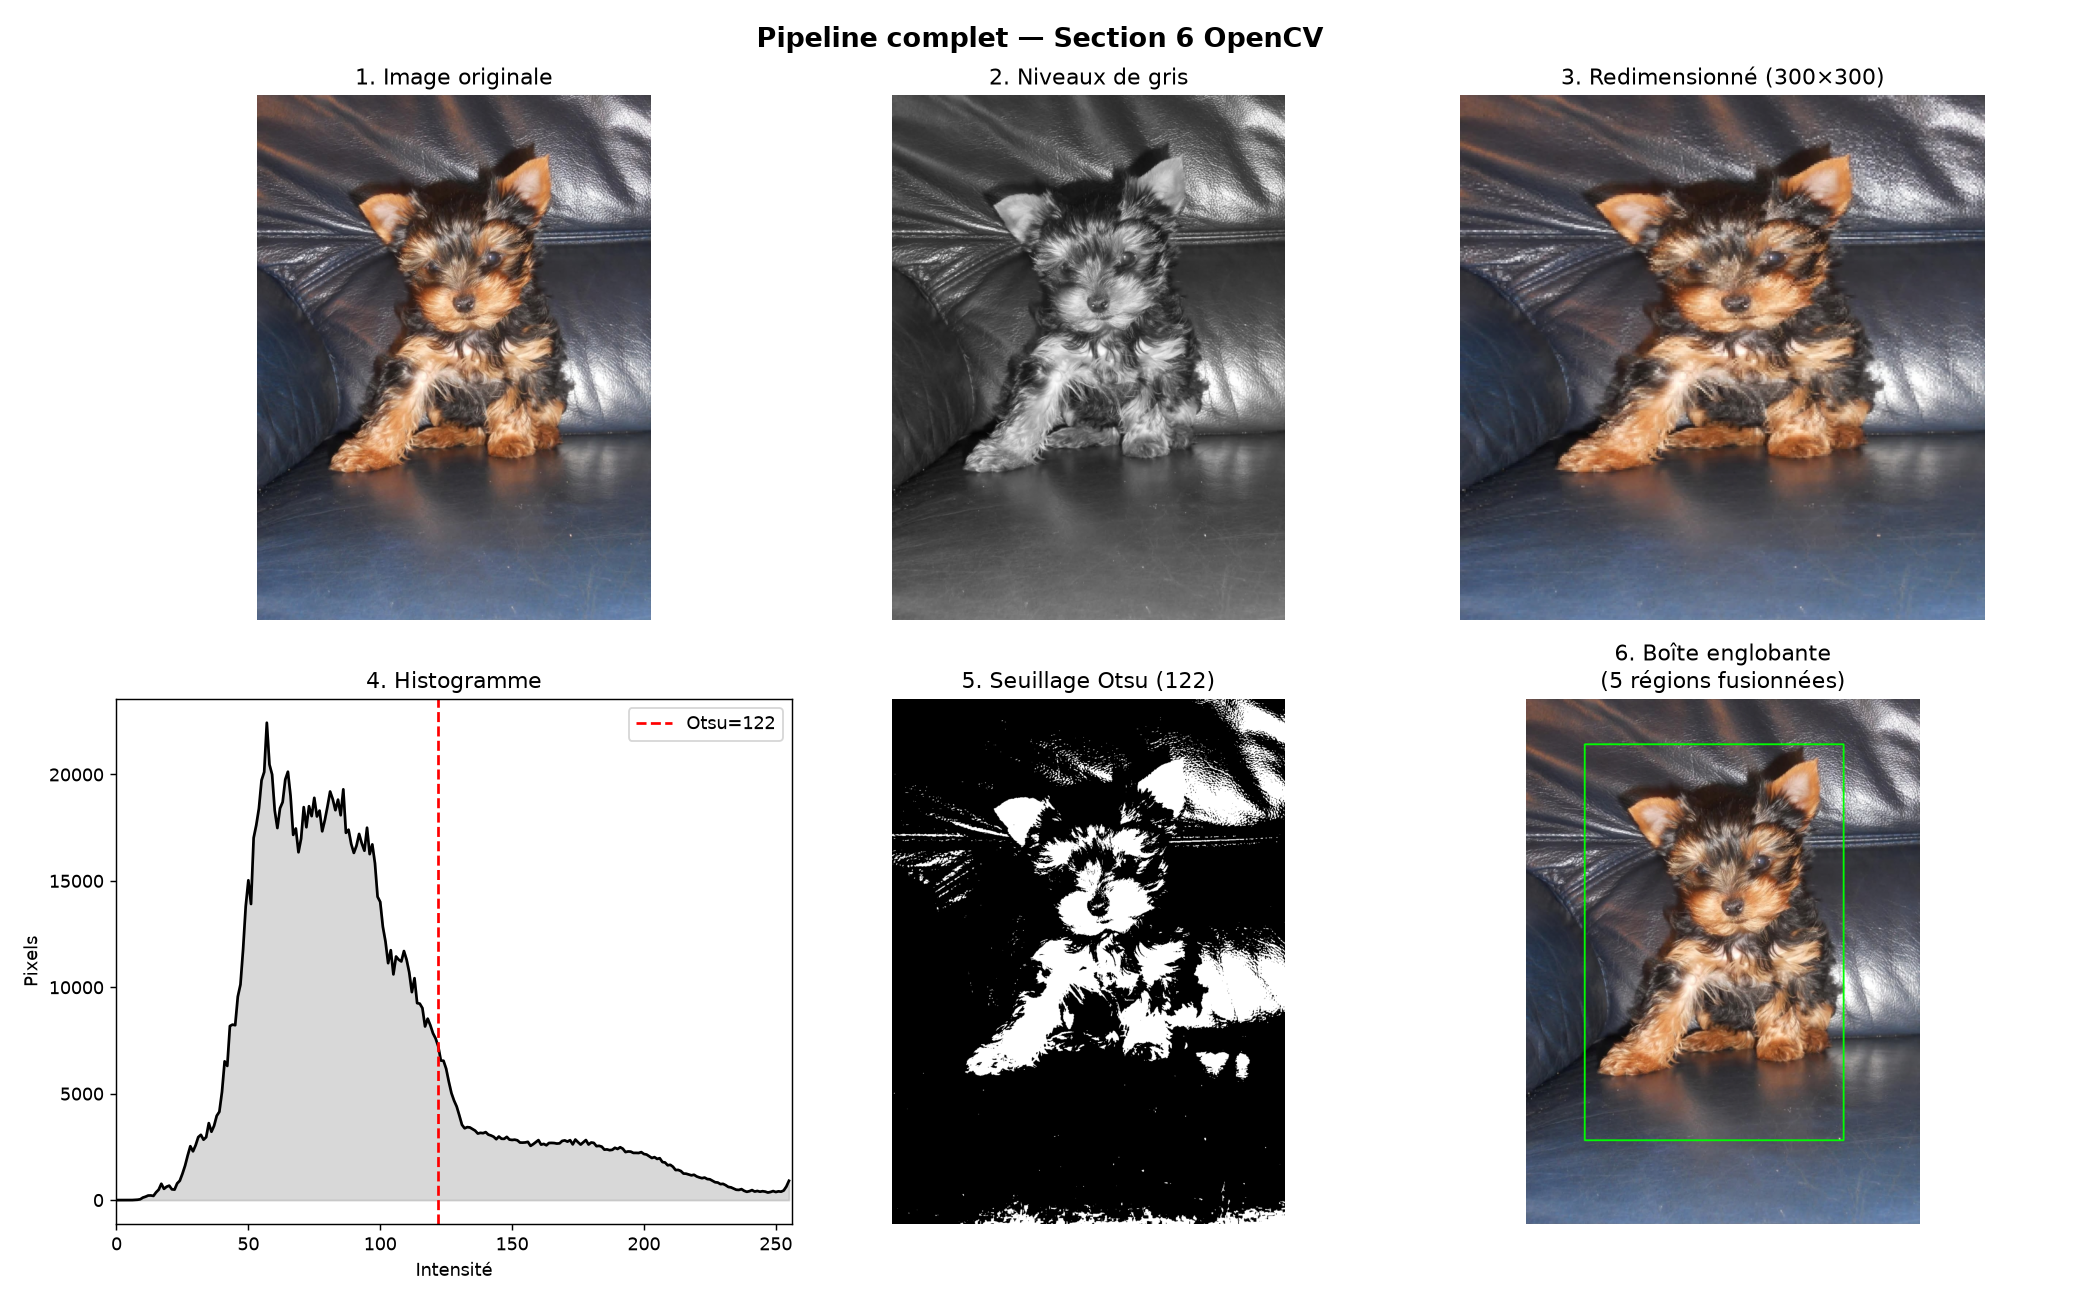
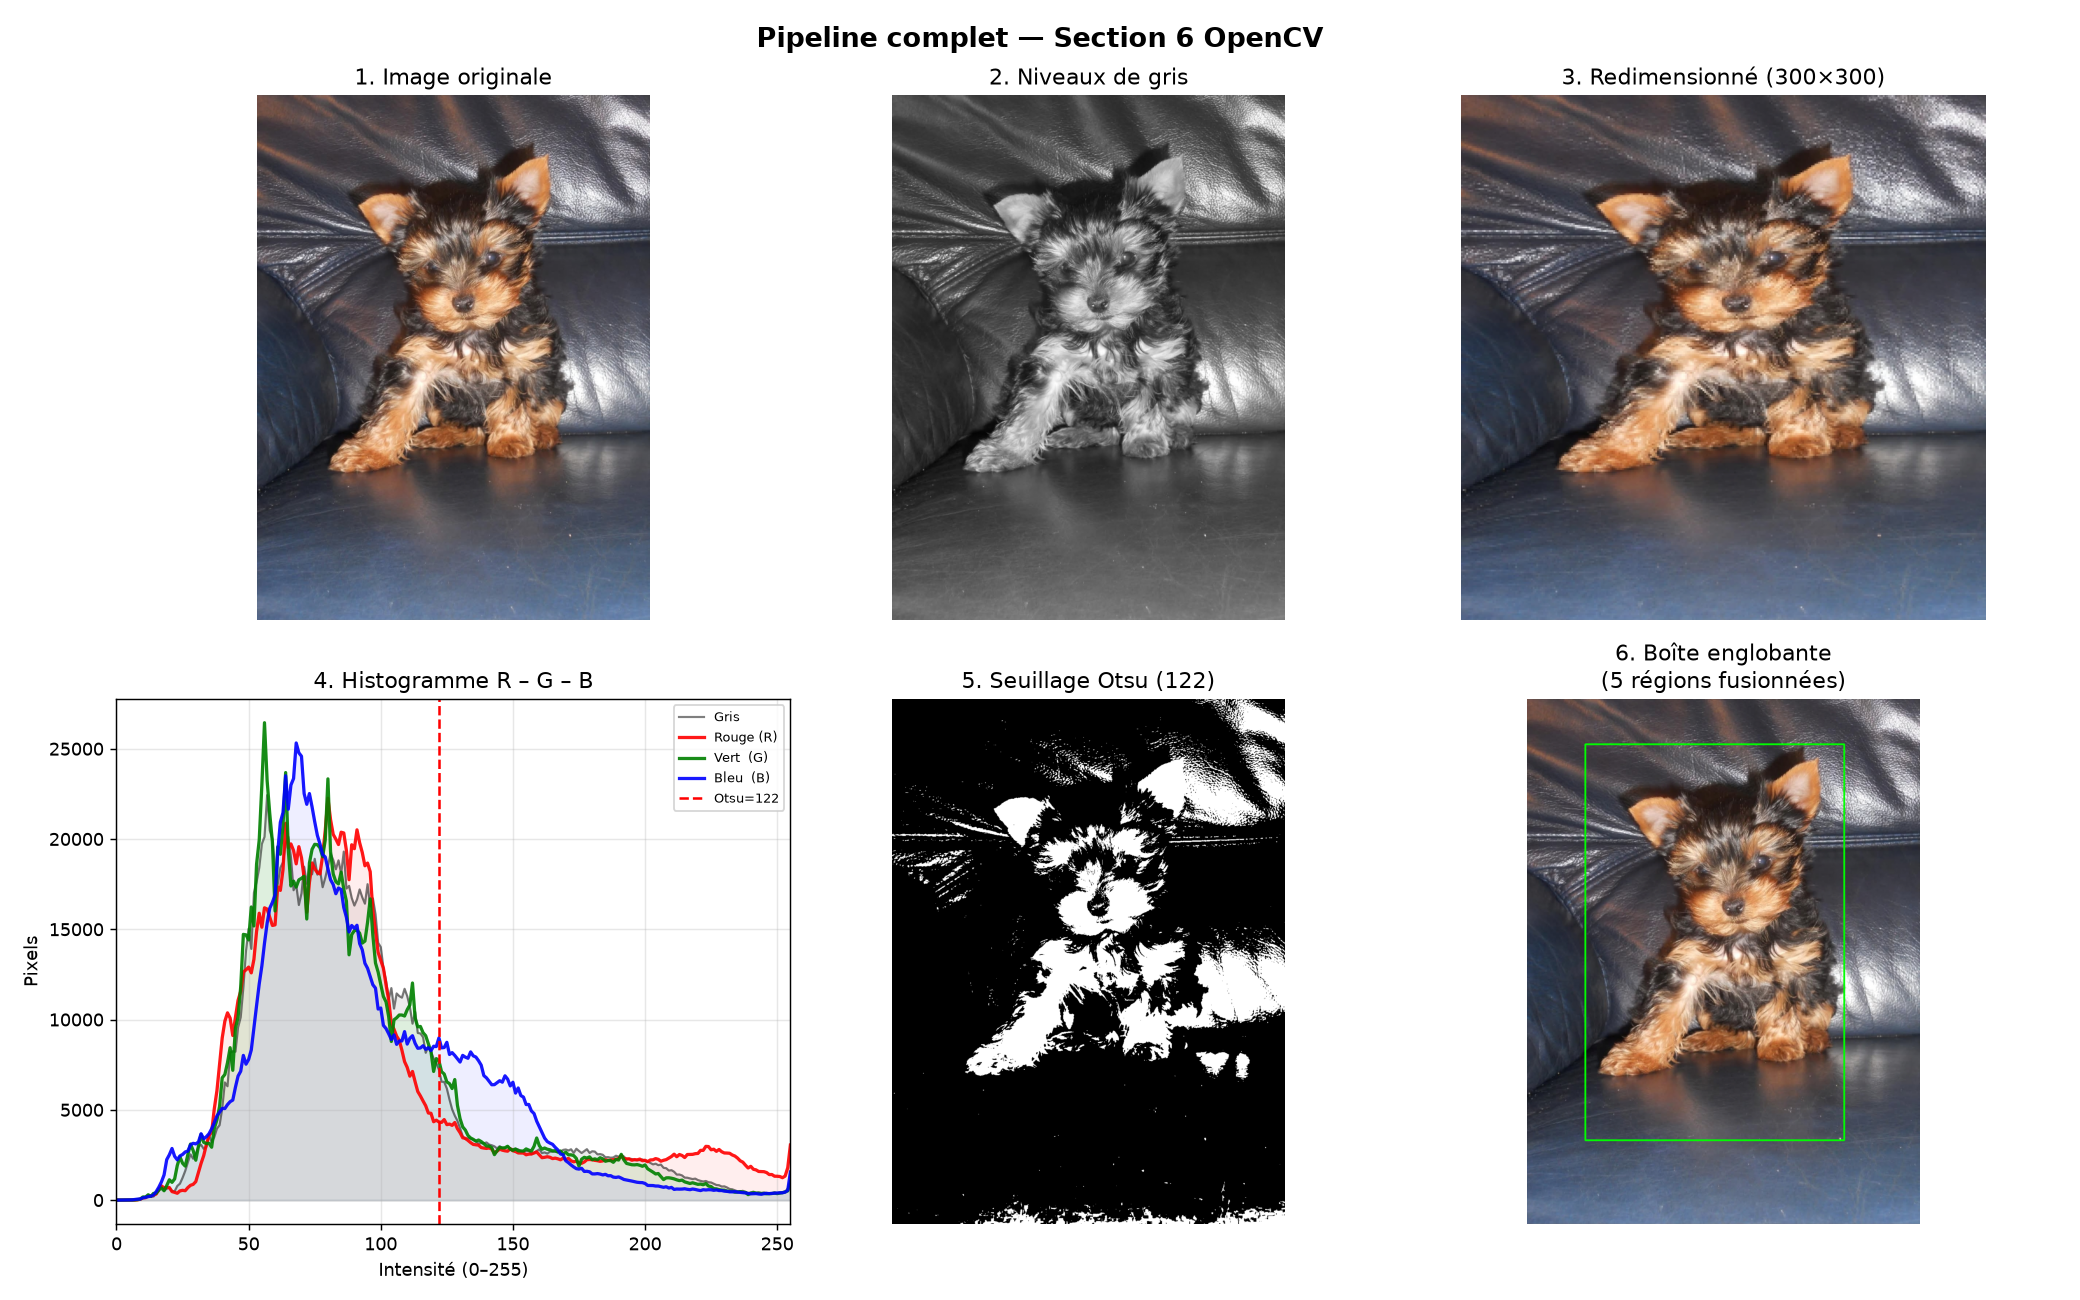
feat: ajout courbes R G B sur histogramme (main_section6 + 6_4)

diff --git a/section_6_opencv/main_section6.py b/section_6_opencv/main_section6.py
@@ -48,9 +48,16 @@ img_resize = cv2.resize(img, (300, 300))
 print(f"[3] Redimensionné   — forme : {img_resize.shape}")
 
 # ───────────────────────────────────────────────────────────────────────────
-# 4. Histogramme
+# 4. Histogramme niveaux de gris + courbes R, G, B
 # ───────────────────────────────────────────────────────────────────────────
 hist = cv2.calcHist([gris], [0], None, [256], [0, 256])
+
+# OpenCV stocke en BGR → index 2=R, 1=G, 0=B
+canaux_rgb = [
+    {"nom": "Rouge (R)", "index": 2, "color": "red",   "fill": "#ffaaaa"},
+    {"nom": "Vert  (G)", "index": 1, "color": "green", "fill": "#aaffaa"},
+    {"nom": "Bleu  (B)", "index": 0, "color": "blue",  "fill": "#aaaaff"},
+]
 
 # ───────────────────────────────────────────────────────────────────────────
 # 5. Seuillage (Otsu)
@@ -80,14 +87,27 @@ ax3.set_title("3. Redimensionné (300×300)")
 ax3.axis("off")
 
 ax4 = fig.add_subplot(2, 3, 4)
-ax4.plot(hist, color="black")
-ax4.fill_between(np.arange(256), hist.flatten(), alpha=0.3, color="gray")
-ax4.axvline(seuil_otsu, color="red", linestyle="--", label=f"Otsu={seuil_otsu:.0f}")
-ax4.set_title("4. Histogramme")
-ax4.set_xlabel("Intensité")
+x = np.arange(256)
+
+# Courbe niveaux de gris (fond gris)
+ax4.plot(x, hist.flatten(), color="black", linewidth=1.2, alpha=0.5, label="Gris")
+ax4.fill_between(x, hist.flatten(), alpha=0.15, color="gray")
+
+# Courbes R, G, B
+for c in canaux_rgb:
+    h = cv2.calcHist([img], [c["index"]], None, [256], [0, 256]).flatten()
+    ax4.plot(x, h, color=c["color"], linewidth=1.8, label=c["nom"], alpha=0.9)
+    ax4.fill_between(x, h, color=c["fill"], alpha=0.20)
+
+# Ligne verticale Otsu
+ax4.axvline(seuil_otsu, color="red", linestyle="--", linewidth=1.4, label=f"Otsu={seuil_otsu:.0f}")
+
+ax4.set_title("4. Histogramme R – G – B")
+ax4.set_xlabel("Intensité (0–255)")
 ax4.set_ylabel("Pixels")
-ax4.legend()
-ax4.set_xlim([0, 256])
+ax4.set_xlim([0, 255])
+ax4.legend(fontsize=7)
+ax4.grid(True, alpha=0.3)
 
 ax5 = fig.add_subplot(2, 3, 5)
 ax5.imshow(thresh, cmap="gray")